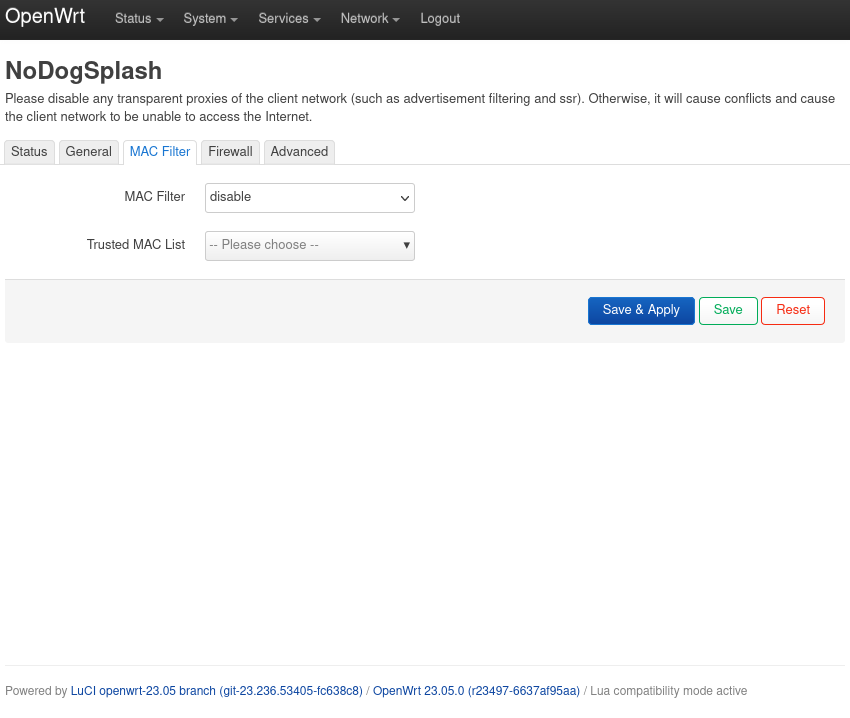
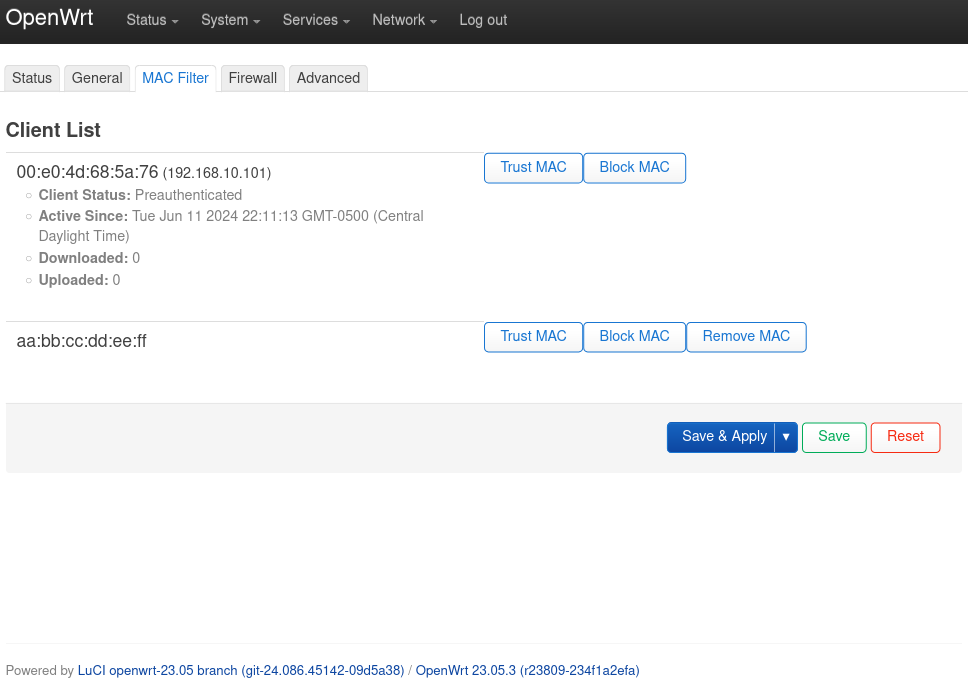
v2.0 - Started Mac filter page
Buttons lack functionality in this commit.  No add MAC functionality, nor any ability to select MAC mechanism.

diff --git a/htdocs/luci-static/resources/view/nodogsplash/mac.js b/htdocs/luci-static/resources/view/nodogsplash/mac.js
@@ -1,0 +1,111 @@
+'use strict';
+'require form';
+'require ui';
+'require view';
+'require uci';
+'require fs';
+
+// Project code format is tabs, not spaces
+return view.extend({
+	block_mechanism: '',
+	allow_list: [],
+	block_list: [],
+	trust_list: [],
+	ndsctl_clients: [],
+
+	load: function () {
+		return Promise.all([
+			uci.load('nodogsplash')
+		]).then(function(stat) {
+			return fs.exec_direct("/usr/bin/ndsctl", [ 'json' ]).catch(function(err) {
+				ui.addNotification(null, E('p', {}, _( err.message )));
+				return '';
+			});
+		});
+	},
+
+	render_client: function(mac, trusted, allowed, blocked, client = [], can_remove = true) {
+		return E('tr', { 'class': 'tr' }, [
+			E('td', { 'class': 'td left', 'style': 'width: 50%;' }, [
+				E('span', { style: 'font-size:medium;' }, mac),
+				E('span', {}, client.ip != null ? ' (' + client.ip + ')' : ''),
+				E('ul', { style: "margin-left: 20px" }, client.state != null ? [
+					E('li', { style: "list-style-type: circle;" }, [
+						E('span', { style: "font-weight: bold;" }, _("Client Status") + ": "),
+						E('span', {}, client.state)
+					]),
+					E('li', { style: "list-style-type: circle;" }, [
+						E('span', { style: "font-weight: bold;" }, _("Active Since") + ": "),
+						E('span', {}, new Date(client.active * 1000)),
+					]),
+					E('li', { style: "list-style-type: circle;" }, [
+						E('span', { style: "font-weight: bold;" }, _("Downloaded") + ": "),
+						E('span', {}, client.downloaded),
+					]),
+					E('li', { style: "list-style-type: circle;" }, [
+						E('span', { style: "font-weight: bold;" }, _("Uploaded") + ": "),
+						E('span', {}, client.uploaded),
+					]) ] : [ E('span', {})
+				]),
+			]),
+			E('td', { 'class': 'diag-action', 'style': 'width: 50%; vertical-align: top;' }, [
+				E('button', {
+					'class': 'cbi-button cbi-button-action',
+					'click': ui.createHandlerFn(this, !trusted ? 'Trust_MAC' : 'Untrust_MAC')
+				}, [ !trusted ? _('Trust MAC')  : _("Untrust MAC")]),
+				E('button', {
+					'class': 'cbi-button cbi-button-action' + (this.block_mechanism ? ' hidden' : ''),
+					'click': ui.createHandlerFn(this, !blocked ? 'Block_MAC' : 'Unblock_MAC')
+				}, [ !blocked ? _('Block MAC')  : _("Unblock MAC")]),
+				E('button', {
+					'class': 'cbi-button cbi-button-action' + (!this.block_mechanism ? ' hidden' : ''),
+					'click': ui.createHandlerFn(this, !allowed ? 'Allow_MAC' : 'Unallow_MAC')
+				}, [ !allowed ? _('Allow MAC')  : _("UnAllow MAC")]),
+				can_remove ? E('button', {
+					'class': 'cbi-button cbi-button-action',
+					'click': ui.createHandlerFn(this, 'Remove_MAC')
+				}, [ _('Remove MAC') ]) : E('span', {}),
+			])
+		]);
+	},
+
+	render_list: function(table, list, can_remove = true) {
+		var mac, i, client;
+		for (let i in list) {
+			// Render the client data:
+			client = list[i];
+			mac = client.mac != null ? client.mac : client;
+			table.appendChild( this.render_client( mac.toLowerCase(), this.trust_list.includes(mac), this.allow_list.includes(mac), this.block_list.includes(mac), client, can_remove ) );
+
+			// Remove the client from each of the mac lists:
+			this.trust_list = this.trust_list.filter( check => check != mac );
+			this.allow_list = this.allow_list.filter( check => check != mac );
+			this.block_list = this.block_list.filter( check => check != mac );
+		}
+		return table;
+	},
+
+	render: function(data) {
+		var mac, client;
+		var sections = uci.sections('nodogsplash');
+		this.allow_list = sections[0].allowedmac != null ? sections[0].allowedmac : [];
+		this.block_list = sections[0].blockedmac != null ? sections[0].blockedmac : [];
+		this.trust_list = sections[0].trustedmac != null ? sections[0].trustedmac : [];
+		this.block_mechanism = sections[0].macmechanism == 'block';
+
+		// Process the current clients first:
+		var table = E('table', { 'class': 'table' });
+		data = JSON.parse(data);
+		this.render_list( table, data.clients, false );
+
+		// Process the trusted, allowed and blocked MAC address lists:
+		this.render_list( table, this.trust_list );
+		this.render_list( table, this.allow_list );
+		this.render_list( table, this.block_list );
+
+		// Return the entire table:
+		return E('div', { 'class': 'left' }, [
+			E('h3', _('Client List')), table
+		]);
+	}
+});

diff --git a/README.md b/README.md
@@ -2,16 +2,6 @@
 
 Package for luci-app-nodogsplash for OpenWRT
 
-### Version 1.0.1
-Compiled version v1.0.1: [luci-app-nodogsplash_1.0.1_all.ipk](https://github.com/xptsp/openwrt-packages/releases/download/luci-app-nodogsplash_v1.0.1/luci-app-nodogsplash_1.0.1_all.ipk)
-
-sha256sum hash: **9440b721c55b6307f483a5281738127096fd0bcdf206731b2e5a1ef7a0cc49fc**
-
-### Version 1.0
-Compiled version v1.0.1: [luci-app-nodogsplash_1.0_all.ipk](https://github.com/xptsp/openwrt-packages/releases/download/luci-app-nodogsplash_v1.0/luci-app-nodogsplash_1.0_all.ipk)
-
-sha256sum hash: **339732f07e8c0f06abcb24a063f2cd4452622e7832e3d753bbe4c33399b21653**
-
 ### Status Tab
 ![Status Tab](https://github.com/xptsp/luci-app-nodogsplash/blob/main/.github/images/status.png?raw=true)
 
